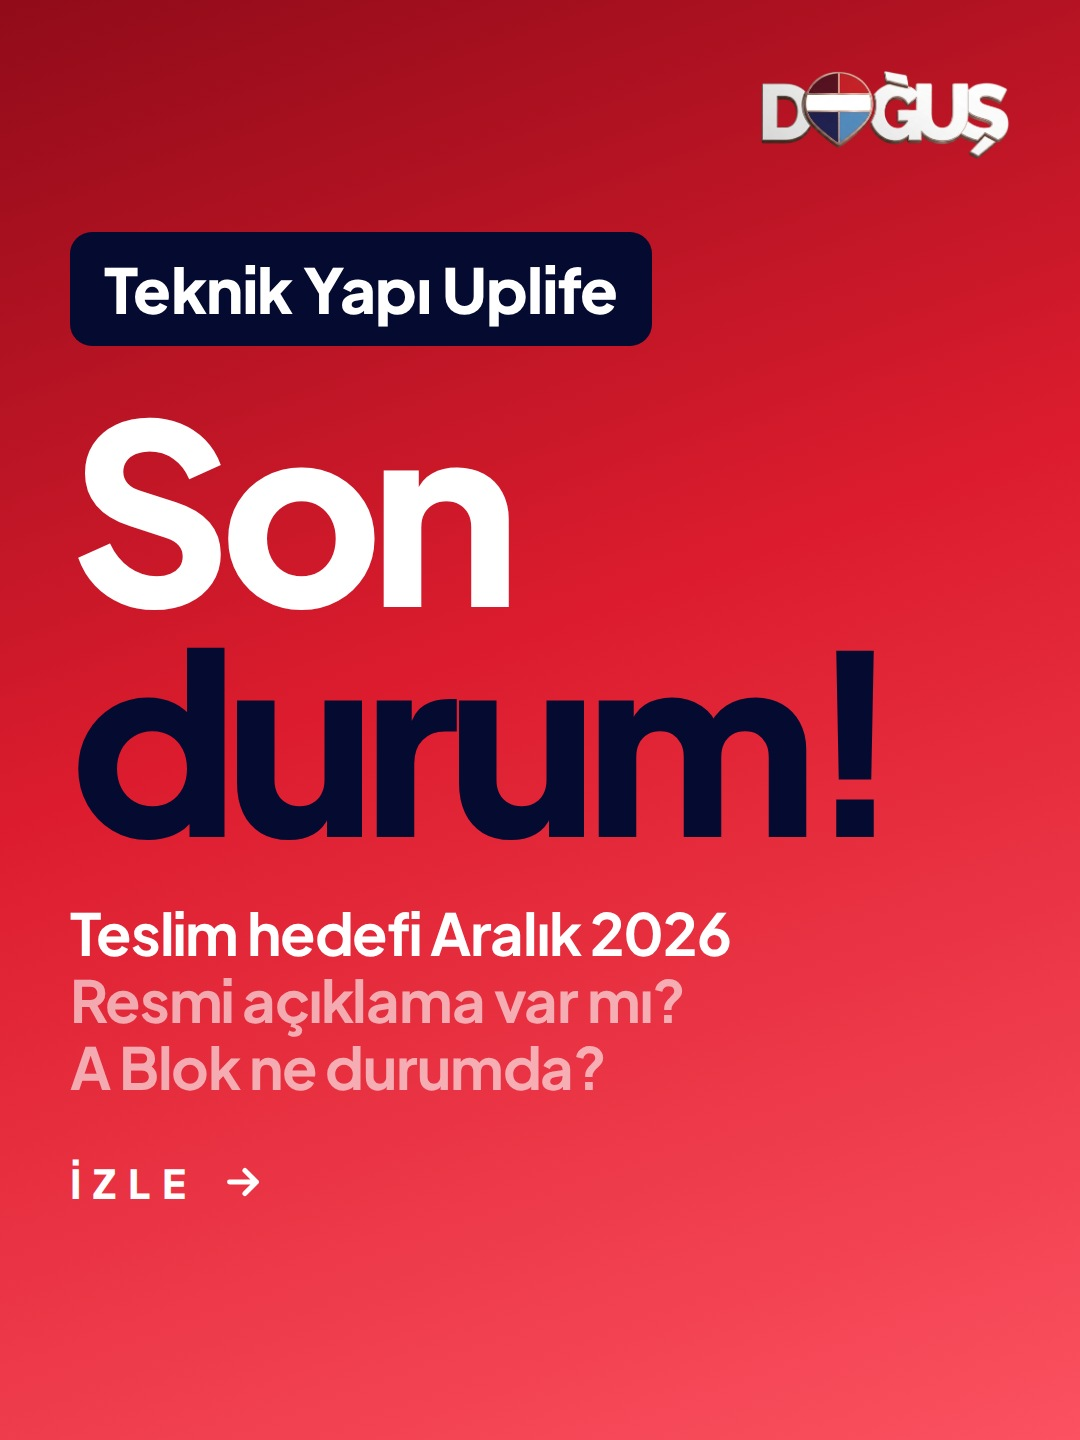
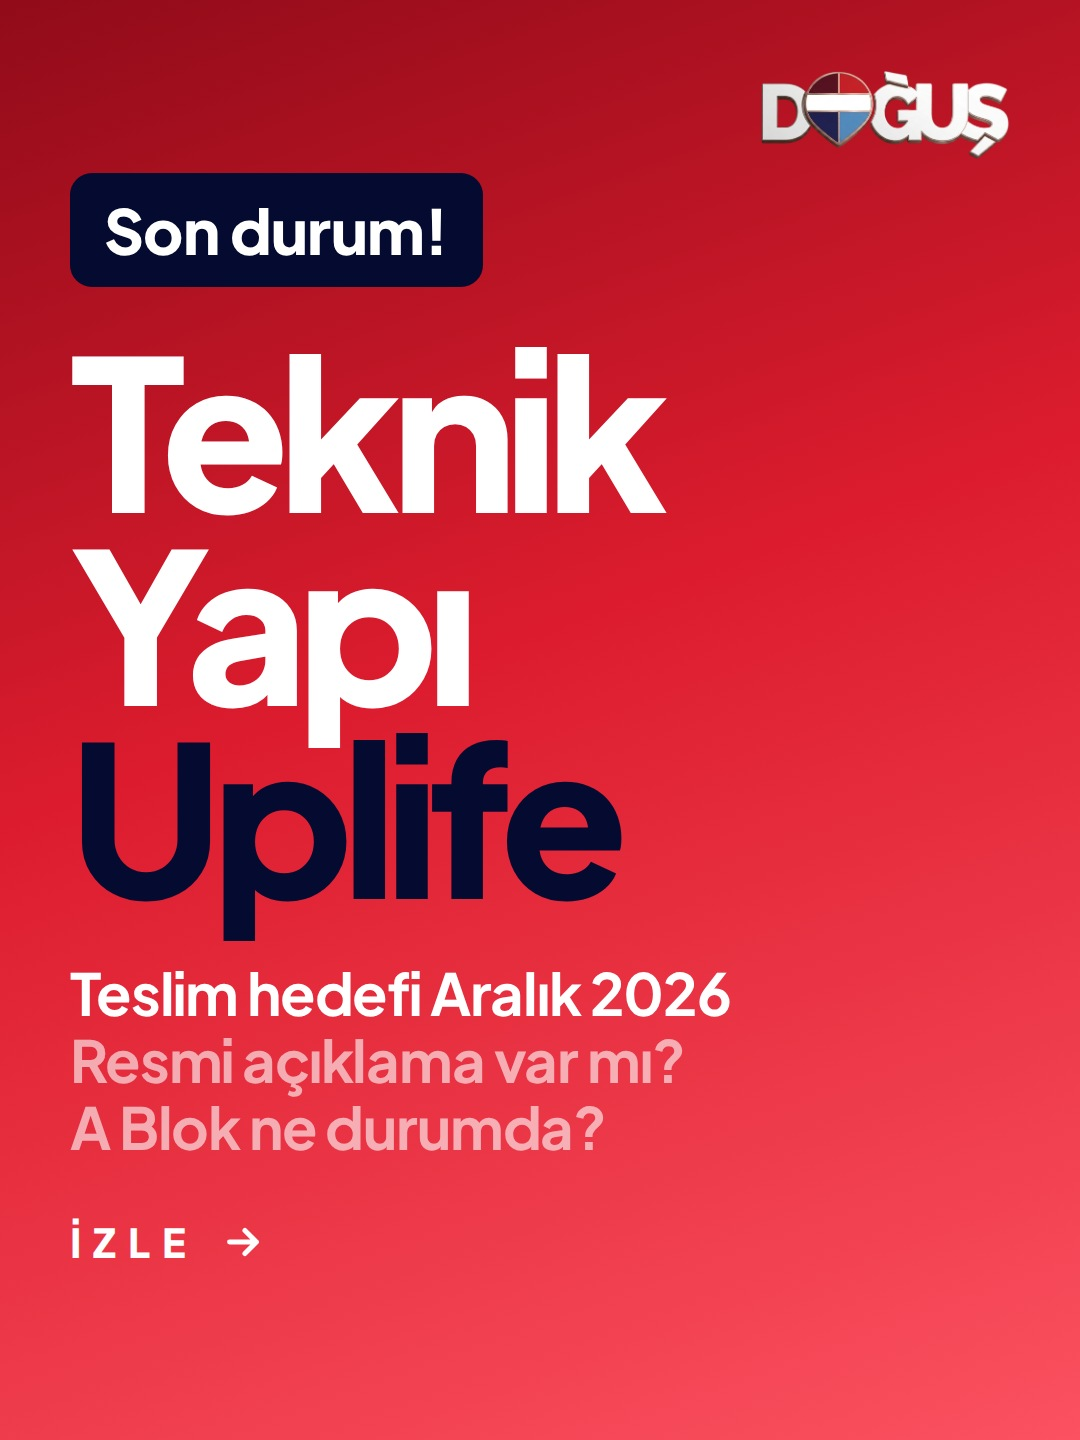
Uplife kapagi: etiket Son durum!, baslik Teknik Yapi Uplife
Claude-Session: https://claude.ai/code/session_01WRjv6iEbjtXjTmoaDMzP1n

Changed region(s): [[0.0611, 0.0938, 0.825, 0.875]]

diff --git a/uplife/kapak.html b/uplife/kapak.html
@@ -15,7 +15,7 @@ body{background:#000}
 .logo{position:absolute;right:70px;top:70px;width:250px}
 .reel .logo{top:300px}
 .tag{align-self:flex-start;background:#DC1C2E;border-radius:22px;padding:18px 34px;font-weight:800;font-size:62px;letter-spacing:-.01em}
-h1{font-size:250px;font-weight:800;line-height:.92;letter-spacing:-.05em;margin-top:44px}
+h1{font-size:210px;font-weight:800;line-height:.92;letter-spacing:-.05em;margin-top:44px}
 h1 .hl{color:#FB5160}
 .sub{font-size:58px;font-weight:700;line-height:1.15;margin-top:50px;letter-spacing:-.02em}
 .sub span{opacity:.6}
@@ -31,8 +31,8 @@ h1 .hl{color:#FB5160}
 <body>
 <div id="c">
   <img class="logo" src="assets/dogus-logo.png" alt="RE/MAX Doğuş">
-  <div class="tag">Teknik Yapı Uplife</div>
-  <h1>Son<br><span class="hl">durum!</span></h1>
+  <div class="tag">Son durum!</div>
+  <h1>Teknik<br>Yapı<br><span class="hl">Uplife</span></h1>
   <div class="sub">Teslim hedefi Aralık 2026<br><span>Resmi açıklama var mı?<br>A Blok ne durumda?</span></div>
   <div class="kay">İZLE <svg width="46" height="46" viewBox="0 0 24 24" fill="none" stroke-width="2.6" stroke-linecap="round" stroke-linejoin="round"><path d="M5 12h14M13 6l6 6-6 6"/></svg></div>
 </div>
